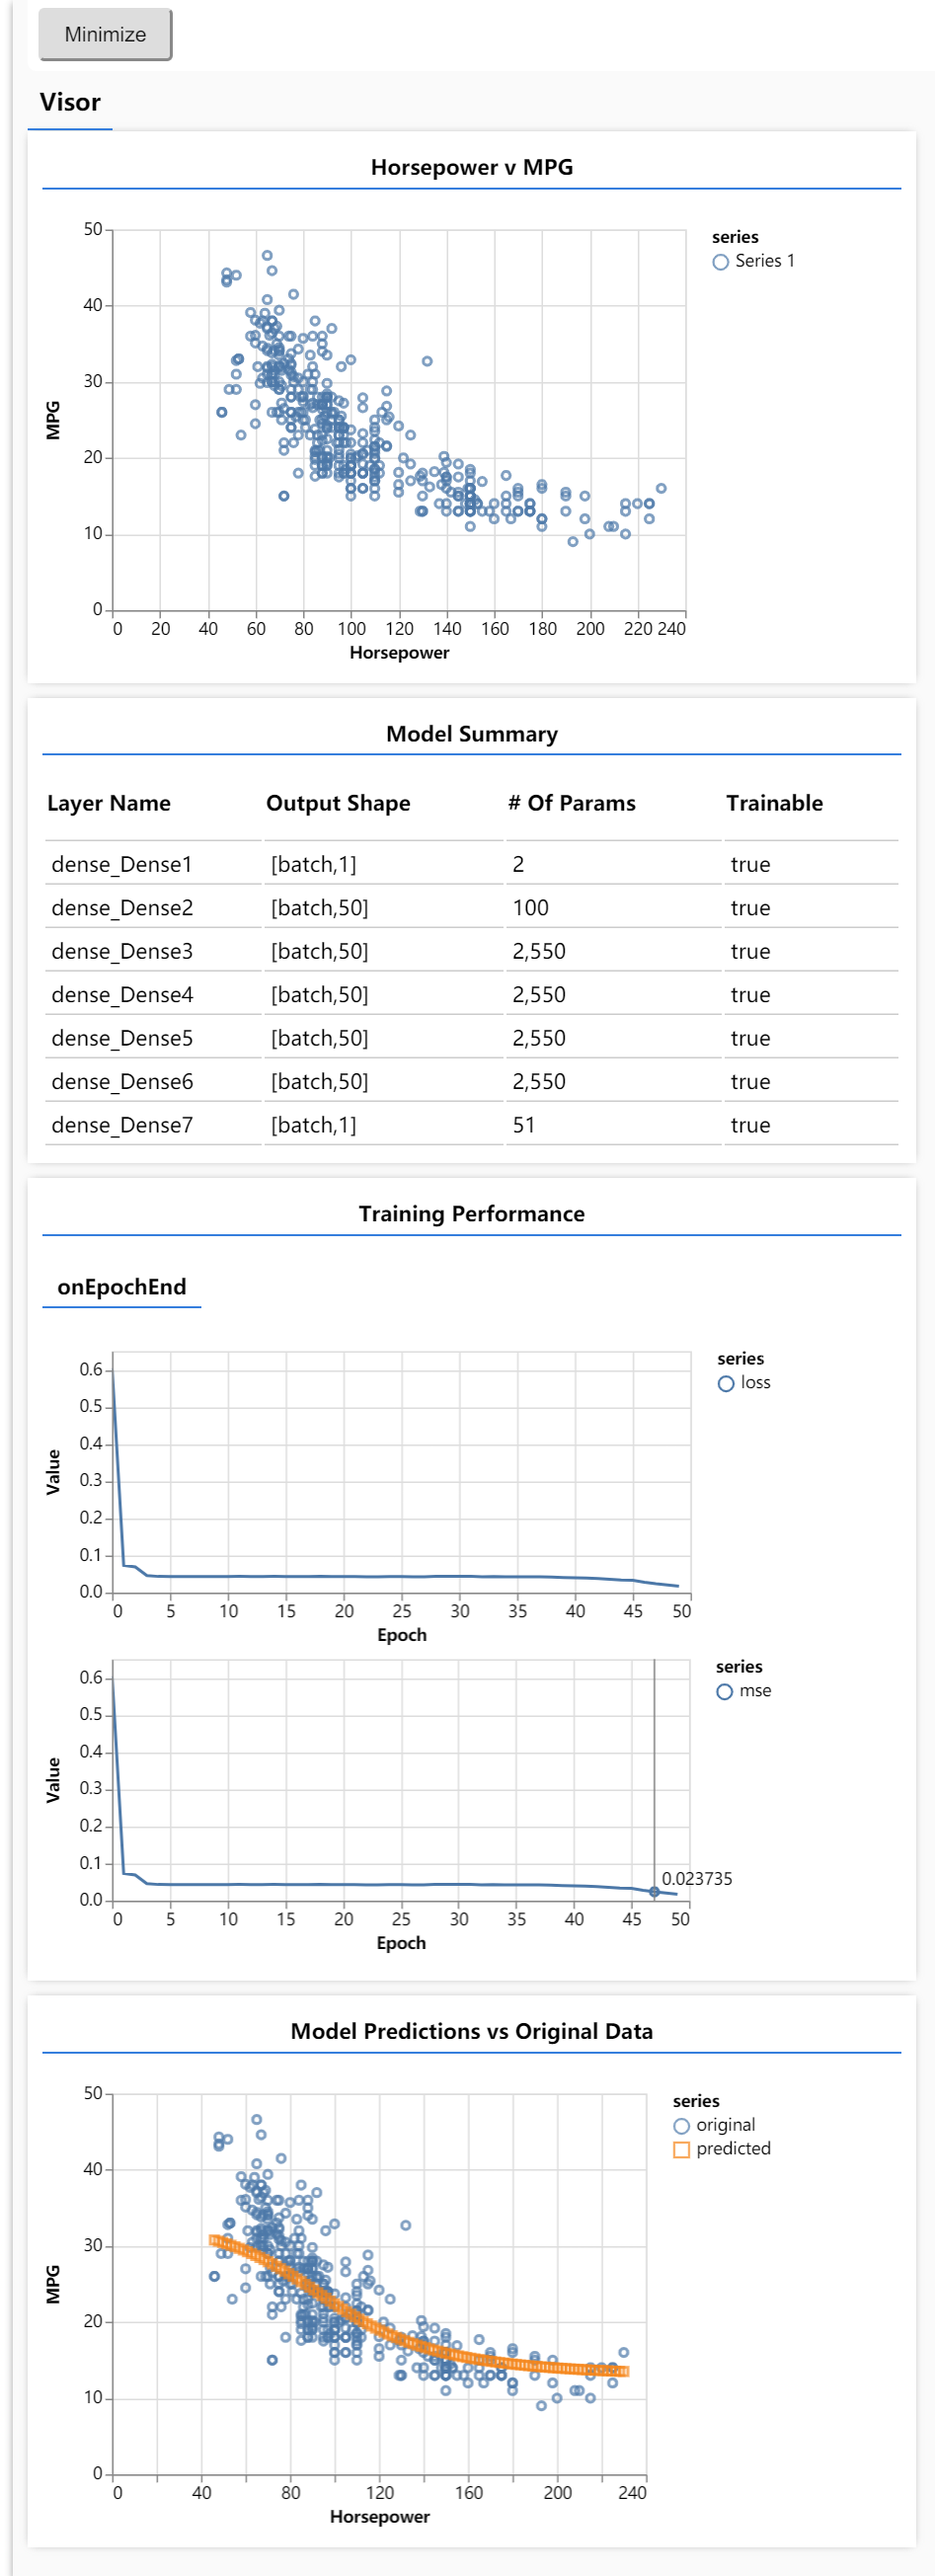
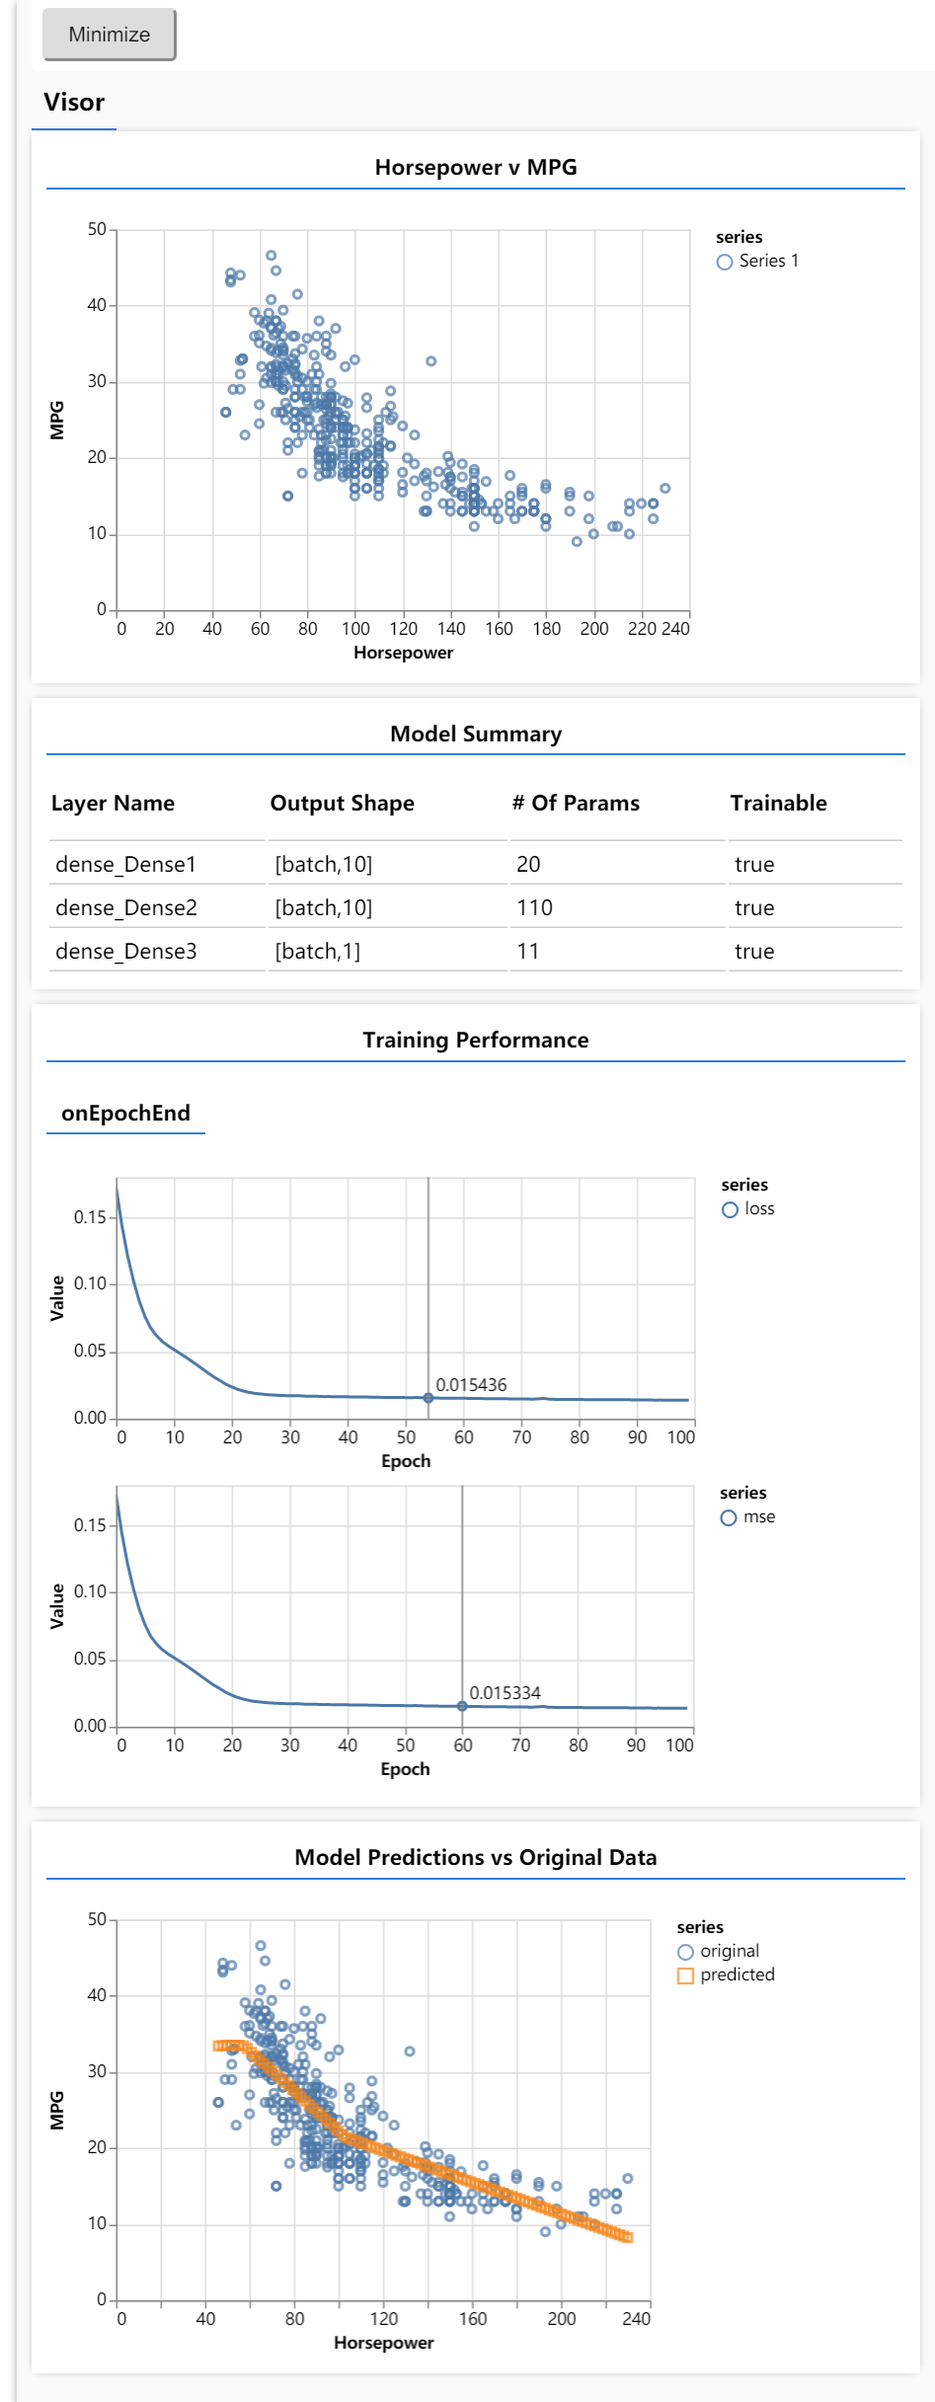
2019年8月14日 16:17:46
在 Cugtyt 的指导下改正了部分错误.

diff --git a/tensorflow/script.js b/tensorflow/script.js
@@ -17,13 +17,8 @@ function createModel() {
     const model = tf.sequential();
 
     // Add a single hidden layer
-    model.add(tf.layers.dense({ inputShape: [1], units: 1, useBias: true }));
-
-    model.add(tf.layers.dense({units: 50, activation: 'sigmoid'}));
-    model.add(tf.layers.dense({units: 50, activation: 'sigmoid'}));
-    model.add(tf.layers.dense({units: 50, activation: 'sigmoid'}));
-    model.add(tf.layers.dense({units: 50, activation: 'sigmoid'}));
-    model.add(tf.layers.dense({units: 50, activation: 'sigmoid'}));
+    model.add(tf.layers.dense({ inputShape: [1], units: 10, useBias: true, activation: 'relu' }));
+    model.add(tf.layers.dense({ inputShape: [1], units: 10, useBias: true, activation: 'relu' }));
 
     // Add an output layer
     model.add(tf.layers.dense({ units: 1, useBias: true }));
@@ -94,7 +89,7 @@ async function trainModel(model, inputs, labels) {
     // 官方给的参考范围是 32-512
     const batchSize = 32;
     // 迭代次数
-    const epochs = 50;
+    const epochs = 100;
 
     // 开启模型训练
     return await model.fit(inputs, labels, {

diff --git a/tensorflow/README.md b/tensorflow/README.md
@@ -14,7 +14,13 @@ npm install @tensorflow/tfjs
 
 特别说明，如果数据看起来就是随机的，没有结构模式的，也就是我们感觉总结不出来规律的时候，这个模型明显就凉了。
 
-tf 提供了一个连续模型的创建方法 const model = tf.sequential(); ，我们可以在这个模型上添加不同的 layer，此处的 layer 在表现形式上不是前端前端地图中的图层概念，而是作为 model 表格中的一行，而且看下面图层添加的语句
+tf 提供了一个顺序模型(就像是一层一层的积木)的创建方法
+
+```javascript
+const model = tf.sequential()
+```
+
+我们可以在这个模型上添加不同的 layer，此处的 layer 在表现形式上不是前端地图中的图层概念，而是作为 model 表格中的一行，而且看下面图层添加的语句
 
 ```javascript
 model.add(tf.layers.dense({ inputShape: [1], units: 1, useBias: true }));
@@ -42,10 +48,10 @@ async function run() {
 
 具体的训练步骤
 
-1. 训练之前,先指定一个优化器 optimizer ,一个处理偏差数据的函数 loss
+1. 训练之前,先指定一个优化器 optimizer ,一个函数 loss 表示当前数据下，模型预测值和真实值之间的好坏情况
 2. 指定玄学的批量处理大小 batchSize (它类似于指定程序占用的内存, 对于图形领域,我们一般要把这个调到GPU能承受的最大值,官方推荐 32-512 ),以及迭代次数 epochs
 3. 写出真正的训练函数,传入 batchSize 和 epochs, 指定处理结果的回调
-4. 在 run() 中调用 trainModel,传入我们创建的 model, 以及经过处理的 inputs 数据, labels 数据.
+4. 在 run() 中调用 trainModel,传入我们创建的 model, 以及经过处理的 inputs 数据, labels 数据
 5. 在页面上看到模拟效果(就这点数据,竟然这么慢......),将散点模拟成了一条连续的光滑曲线.(我咋觉得这么像之前自动控制原理里的一种曲线模拟呢?那会是用 matlab 做的,那么 tensorflow 做了什么?跟 matlab 做的是一样的事情吗?留作思考题)
 
 
@@ -93,13 +99,8 @@ function createModel() {
     const model = tf.sequential();
 
     // Add a single hidden layer
-    model.add(tf.layers.dense({ inputShape: [1], units: 1, useBias: true }));
-
-    model.add(tf.layers.dense({units: 50, activation: 'sigmoid'}));
-    model.add(tf.layers.dense({units: 50, activation: 'sigmoid'}));
-    model.add(tf.layers.dense({units: 50, activation: 'sigmoid'}));
-    model.add(tf.layers.dense({units: 50, activation: 'sigmoid'}));
-    model.add(tf.layers.dense({units: 50, activation: 'sigmoid'}));
+    model.add(tf.layers.dense({ inputShape: [1], units: 10, useBias: true, activation: 'relu' }));
+    model.add(tf.layers.dense({ inputShape: [1], units: 10, useBias: true, activation: 'relu' }));
 
     // Add an output layer
     model.add(tf.layers.dense({ units: 1, useBias: true }));
@@ -166,11 +167,11 @@ async function trainModel(model, inputs, labels) {
         metrics: ['mse'],
     });
 
-    // 这是一个玄学参数(需要多次调参才能确定最大值,在图形领域,一般要把GPU跑满)
+    // 这是一个玄学参数(需要多次调参才能确定最大值,在图形领域,一般要把GPU内存跑满)
     // 官方给的参考范围是 32-512
     const batchSize = 32;
     // 迭代次数
-    const epochs = 50;
+    const epochs = 100;
 
     // 开启模型训练
     return await model.fit(inputs, labels, {
@@ -270,3 +271,8 @@ async function run() {
 document.addEventListener('DOMContentLoaded', run);
 ```
 
+## 修正记录:
+
+2019年8月14日 16:16:15 
+
+经过 [Cugtyt](https://github.com/Cugtyt) 同学的细心指导,改正了部分错误.在经过神奇的调参后,效果还真不错,炼丹有了突破, awesome man!
